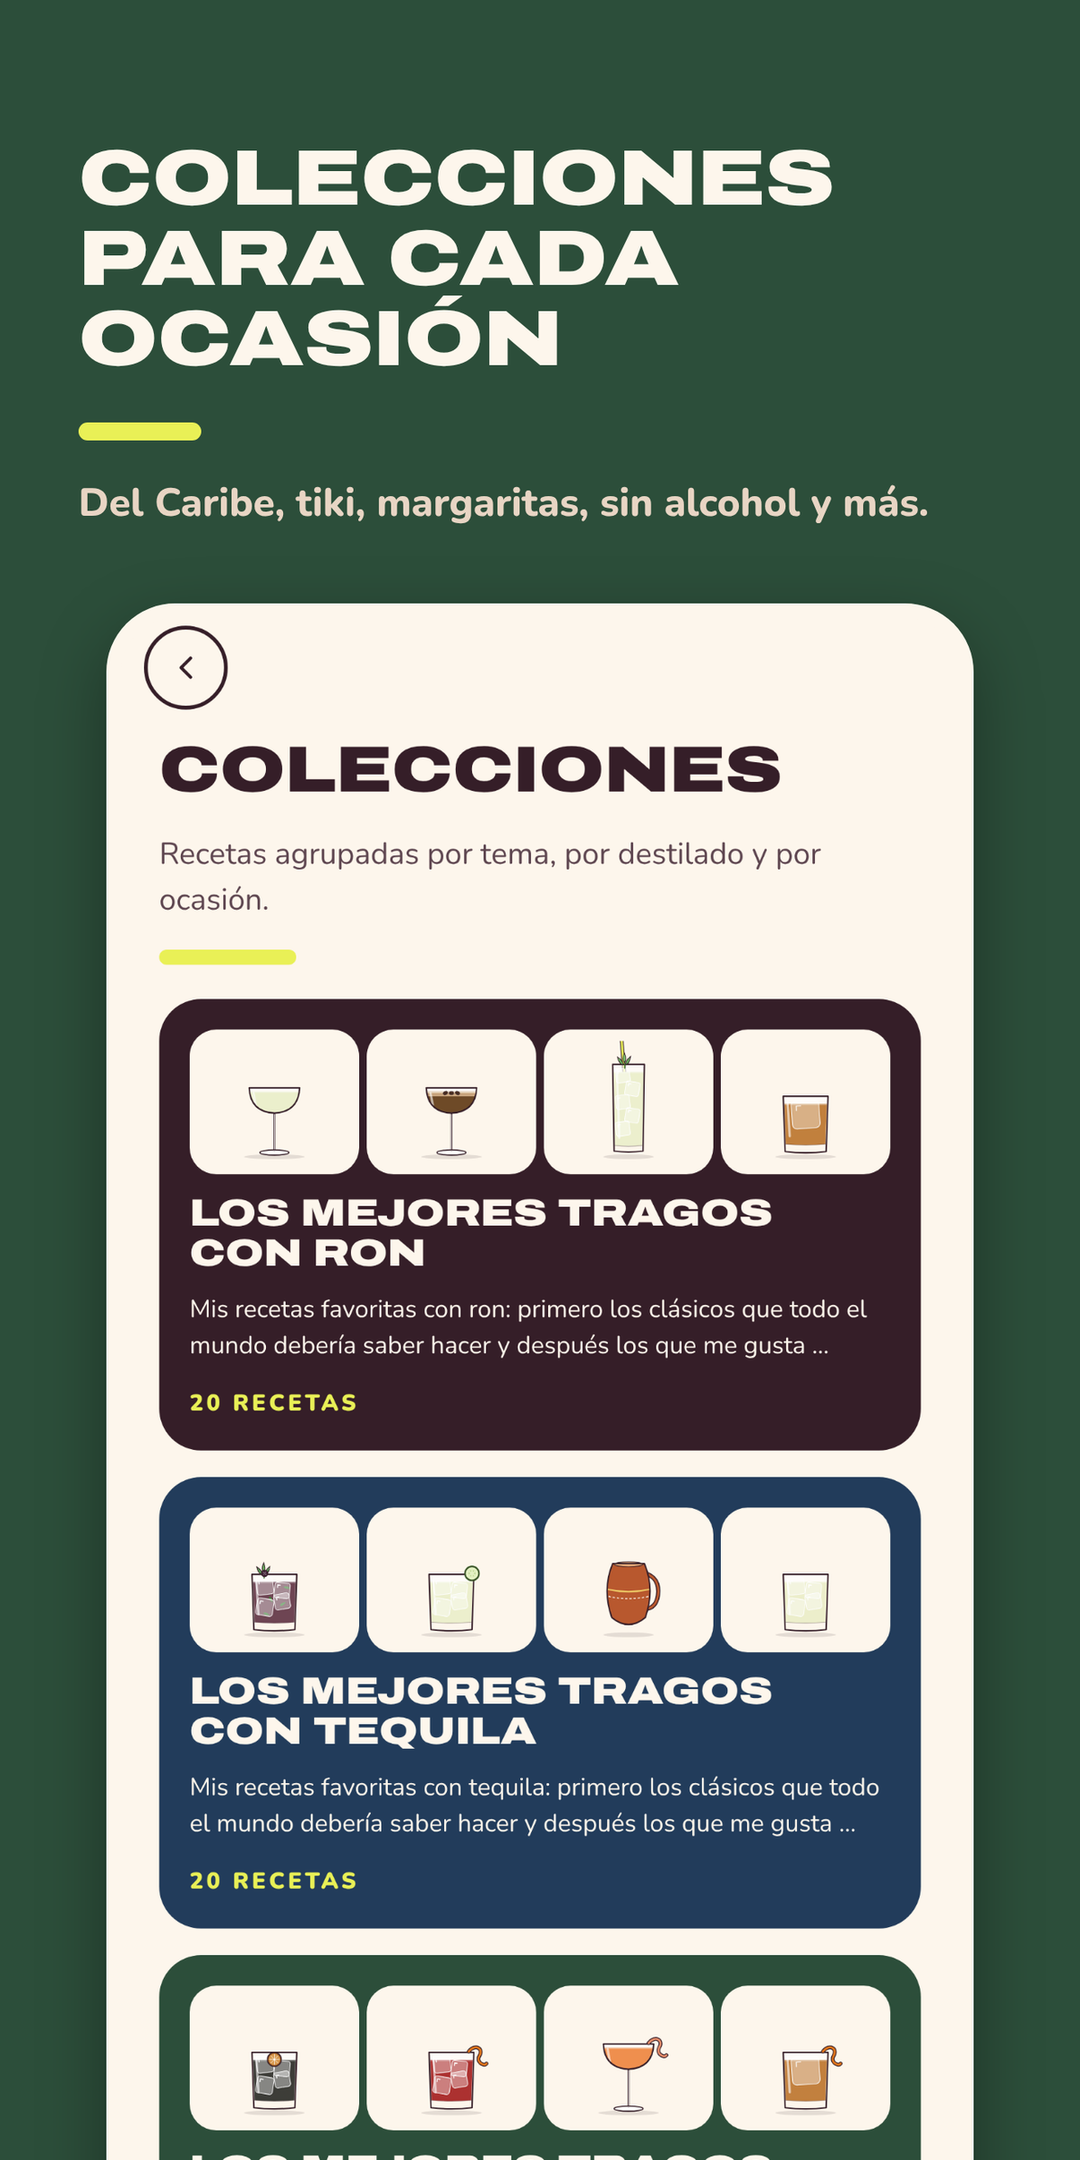
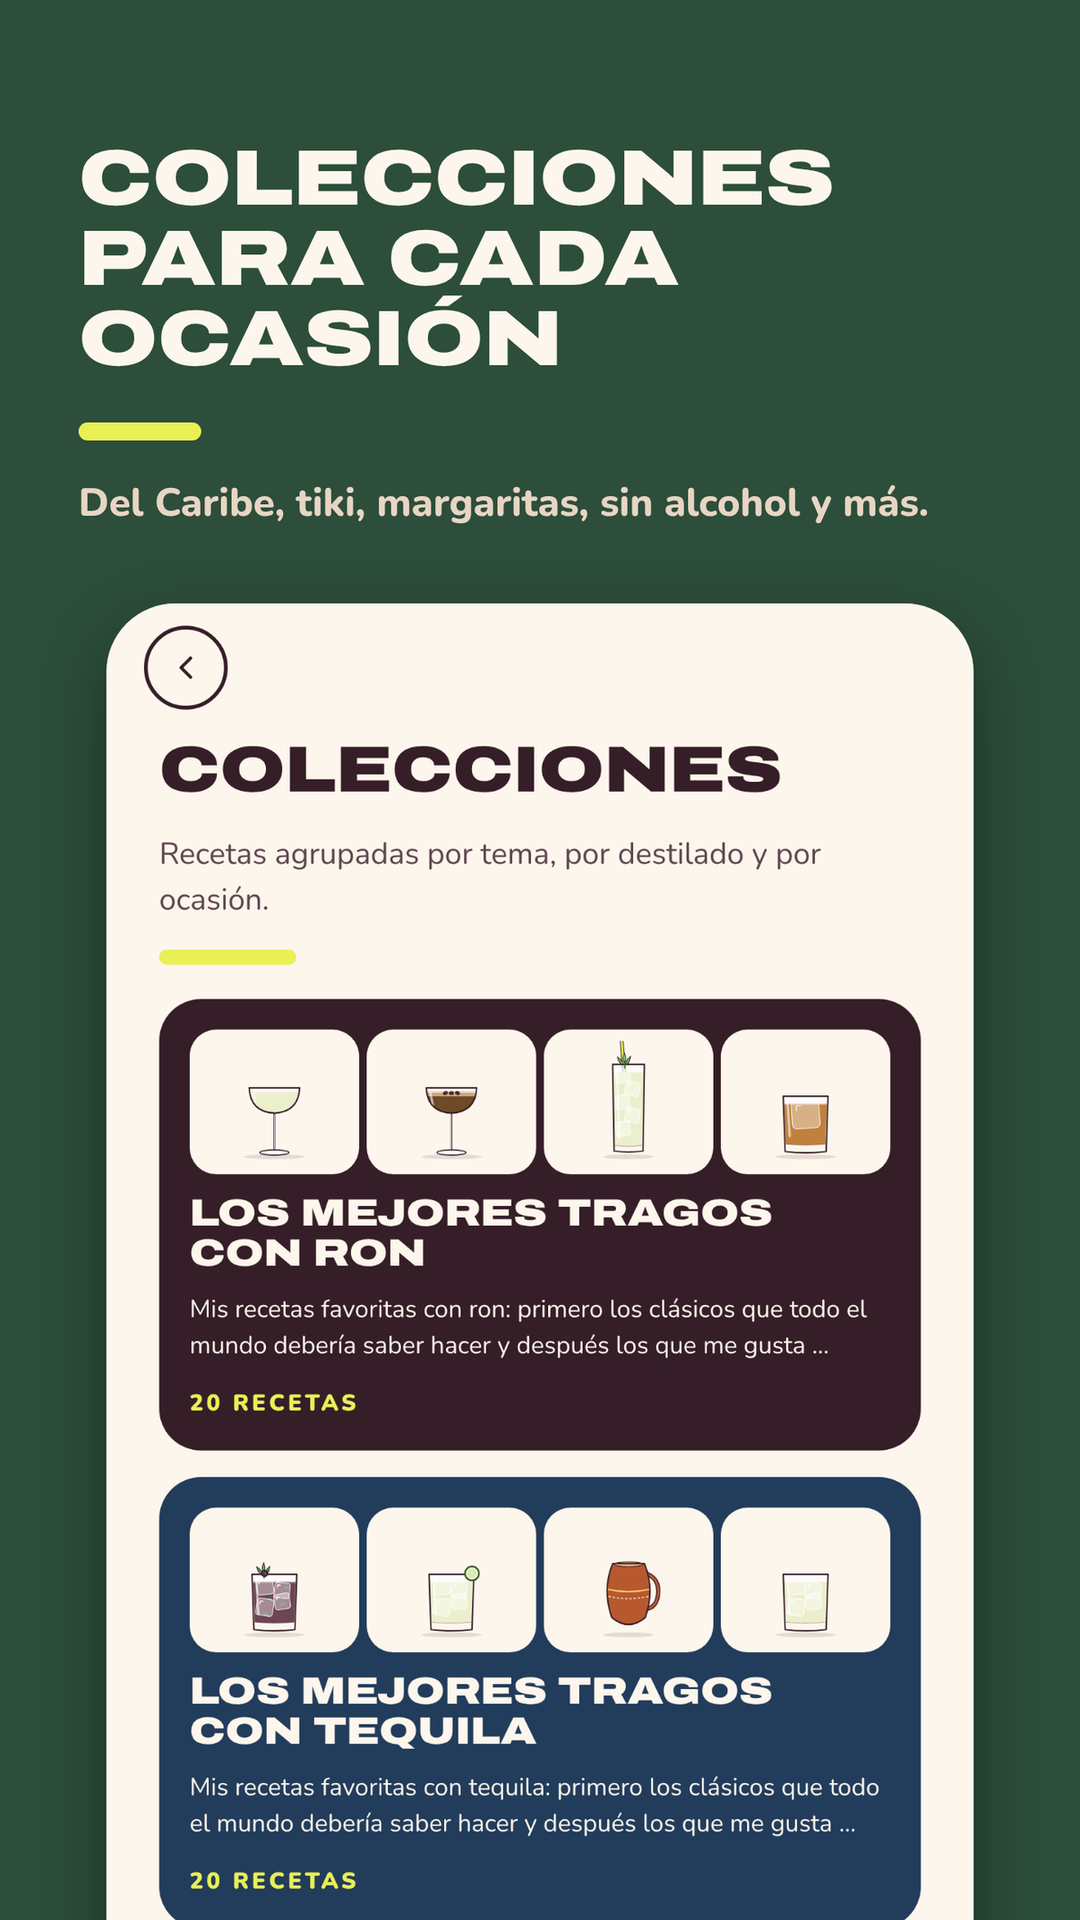
Capturas de Google Play a 9:16 (1080 x 1920), la proporción que exige Play Console (#13)
Claude-Session: https://claude.ai/code/session_01KJaXPEHKM49y2QBmzCJiJx

diff --git a/docs/google-play.md b/docs/google-play.md
@@ -5,7 +5,7 @@ Textos y respuestas de El Trago del Día en Play Console (paquete `com.eltragode
 Imágenes en `docs/google-play/`:
 - `icono-512.png`: ícono de la app, 512 × 512.
 - `grafico-es.png` y `grafico-en.png`: gráfico destacado (feature graphic), 1024 × 500.
-- `es-1.png` a `es-6.png` y `en-1.png` a `en-6.png`: capturas de teléfono, 1080 × 2160 (Google Play pide que el lado largo no pase del doble del corto).
+- `es-1.png` a `es-6.png` y `en-1.png` a `en-6.png`: capturas de teléfono, 1080 × 1920 (Google Play pide 9:16 exacto).
 
 ## Datos generales
 
